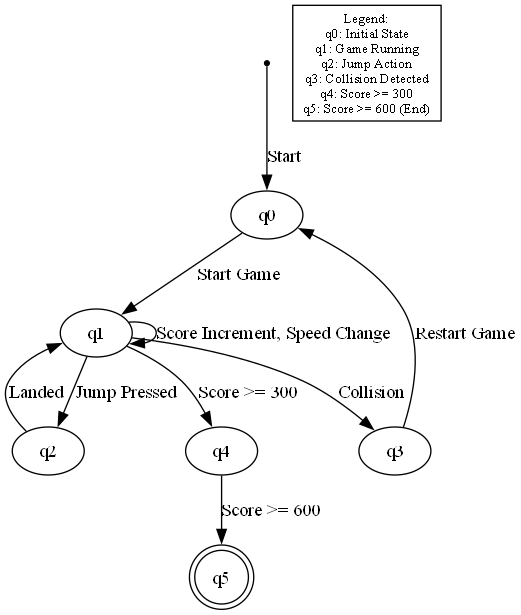
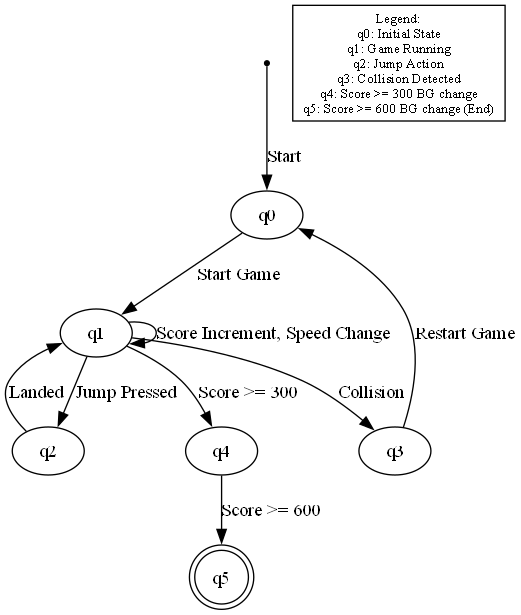
revised dfa

Changed region(s): [[0.6142, 0.0, 0.9827, 0.2163], [0.5835, 0.1236, 0.6142, 0.1545]]

diff --git a/dfa_graph.py b/dfa_graph.py
@@ -20,6 +20,6 @@ dot.edge('q1', 'q4', 'Score >= 300')
 dot.edge('q4', 'q5', 'Score >= 600')
 dot.edge('q1', 'q1', 'Score Increment, Speed Change')
 
-dot.node('legend', label='Legend:\nq0: Initial State\nq1: Game Running\nq2: Jump Action\nq3: Collision Detected\nq4: Score >= 300\nq5: Score >= 600 (End)', shape='box', fontsize='10')
+dot.node('legend', label='Legend:\nq0: Initial State\nq1: Game Running\nq2: Jump Action\nq3: Collision Detected\nq4: Score >= 300 BG change\nq5: Score >= 600 BG change (End)', shape='box', fontsize='10')
 
 dot.render('dfa_graph', format='png', cleanup=True)
